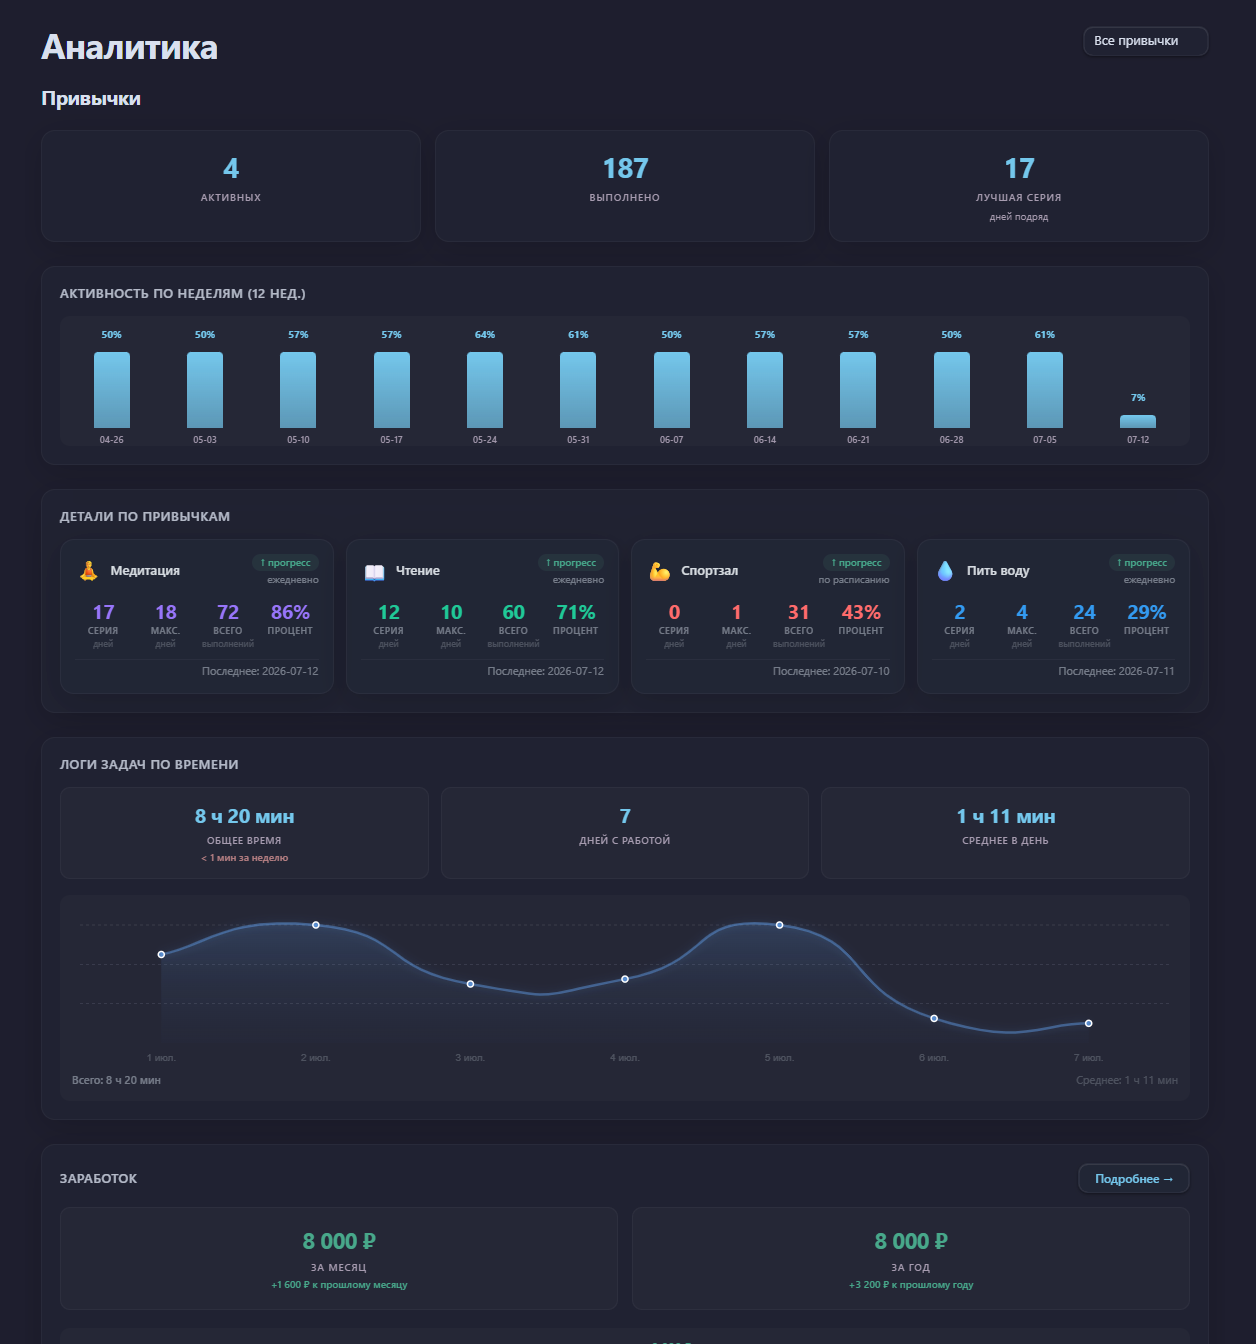
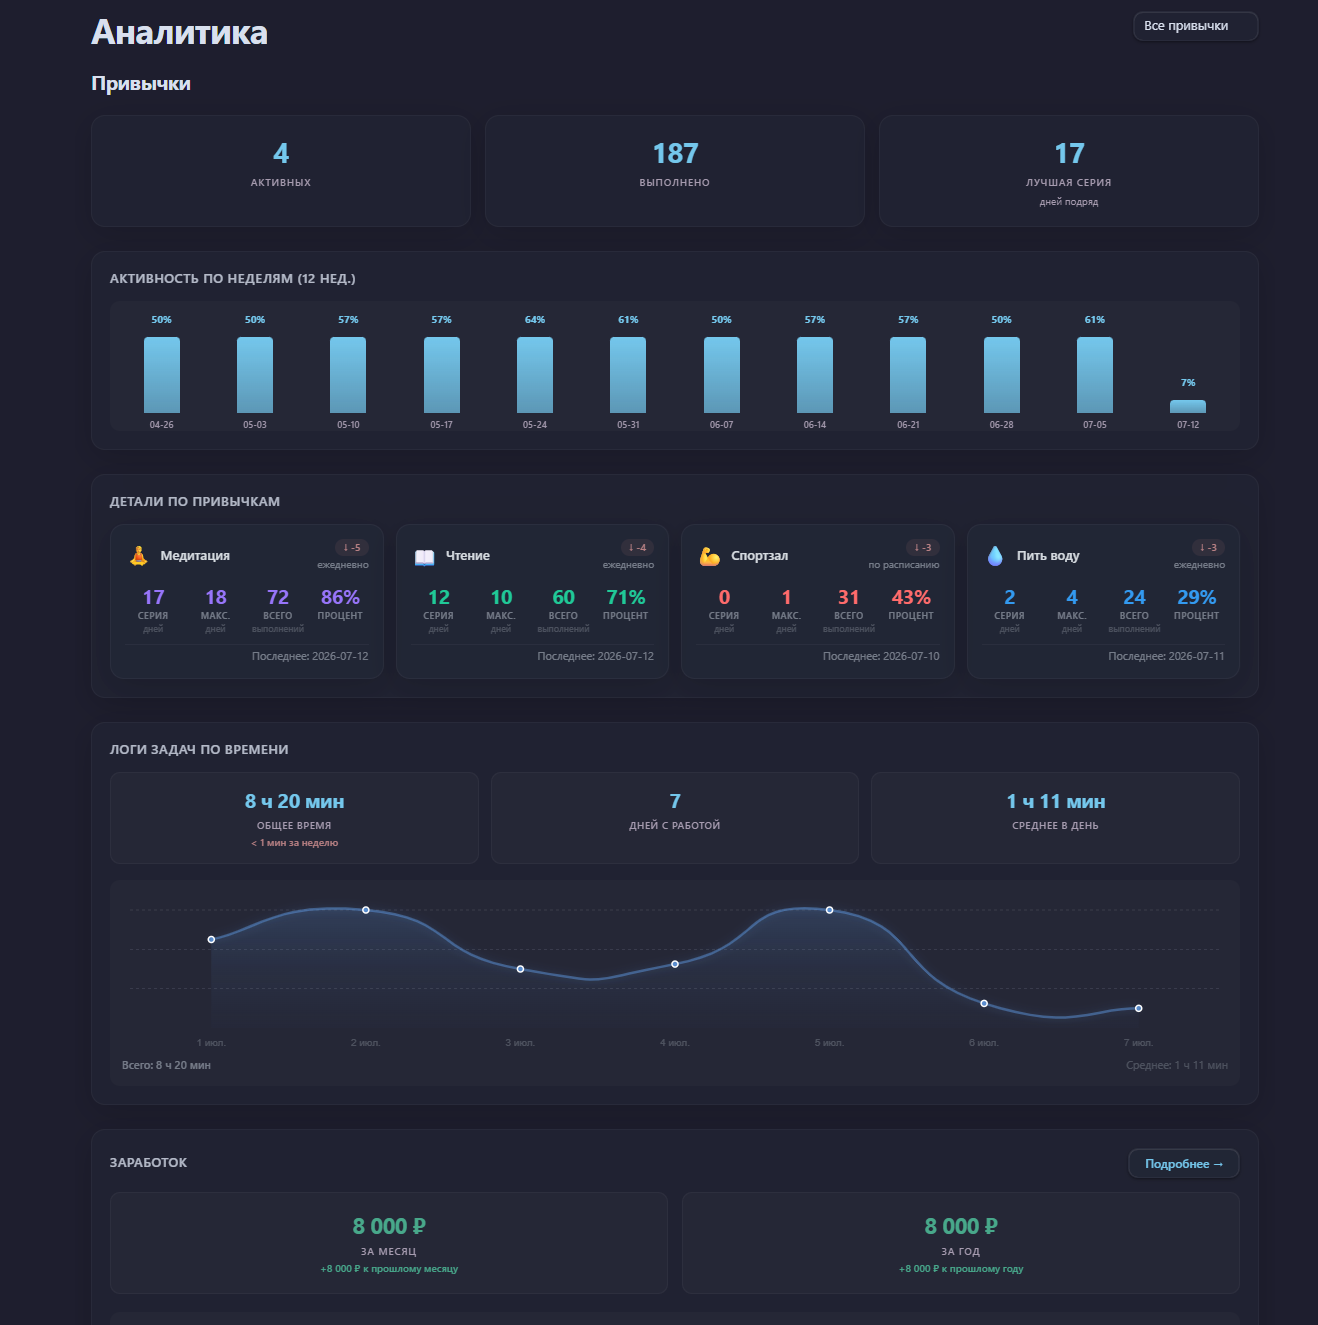
Update 12.07.2026  0:59:16,70

diff --git a/src/components/HabitCard.svelte b/src/components/HabitCard.svelte
@@ -3,14 +3,46 @@
   import { getHabitStats } from "../habit-tracker/stores";
   import type { HabitStats } from "../habit-tracker/stores";
   import { habitLogs } from "../habit-tracker/stores";
+  import moment from "moment";
 
   export let habit: IHabit;
 
   let stats: HabitStats;
+  let trendDelta = 0;
+  let trendText = "";
 
   $: {
     $habitLogs;
     stats = getHabitStats(habit.id);
+
+    // Real trend: completions this week vs last week for this habit
+    const now = moment().startOf("day");
+    const thisWeekStart = now.clone().startOf("week");
+    const lastWeekStart = thisWeekStart.clone().subtract(1, "week");
+    const lastWeekEnd = thisWeekStart.clone().subtract(1, "day");
+
+    let thisWeekCount = 0;
+    let lastWeekCount = 0;
+    for (const log of $habitLogs) {
+      if (log.habitId !== habit.id || !log.completed) continue;
+      const logDate = moment(log.date, "YYYY-MM-DD");
+      if (logDate.isSameOrAfter(thisWeekStart) && logDate.isSameOrBefore(now)) {
+        thisWeekCount++;
+      } else if (logDate.isSameOrAfter(lastWeekStart) && logDate.isSameOrBefore(lastWeekEnd)) {
+        lastWeekCount++;
+      }
+    }
+
+    trendDelta = thisWeekCount - lastWeekCount;
+    if (trendDelta > 0) {
+      trendText = `↑ +${trendDelta}`;
+    } else if (trendDelta < 0) {
+      trendText = `↓ ${trendDelta}`;
+    } else if (thisWeekCount > 0) {
+      trendText = `→ ${thisWeekCount}`;
+    } else {
+      trendText = "—";
+    }
   }
 
   function translateFrequency(freq: string): string {
@@ -28,7 +60,7 @@
     <span class="habit-card-icon">{habit.icon}</span>
     <span class="habit-card-title">{habit.title}</span>
     <span class="habit-card-badge">
-      <span class="habit-card-trend">↑ прогресс</span>
+      <span class="habit-card-trend trend-{trendDelta > 0 ? 'up' : trendDelta < 0 ? 'down' : 'neutral'}">{trendText}</span>
       <span class="habit-card-freq">{translateFrequency(habit.frequency)}</span>
     </span>
   </div>
@@ -108,10 +140,23 @@
   .habit-card-trend {
     font-size: 10px;
     font-weight: 600;
-    color: var(--mcp-success);
-    background: var(--mcp-success-dim);
     padding: 2px 8px;
     border-radius: 10px;
+  }
+
+  .habit-card-trend.trend-up {
+    color: var(--mcp-success);
+    background: var(--mcp-success-dim);
+  }
+
+  .habit-card-trend.trend-down {
+    color: var(--mcp-danger, rgba(220, 100, 100, 0.9));
+    background: var(--mcp-danger-dim, rgba(220, 100, 100, 0.1));
+  }
+
+  .habit-card-trend.trend-neutral {
+    color: var(--mcp-text-muted);
+    background: var(--mcp-glass-highlight);
   }
 
   .habit-card-freq {

diff --git a/src/components/HabitAnalytics.svelte b/src/components/HabitAnalytics.svelte
@@ -122,6 +122,7 @@
     const now = new Date();
     const currentYear = now.getFullYear();
     const currentMonth = now.getMonth() + 1;
+
     const taskMonthly = getEarningsForMonth(currentYear, currentMonth);
     const taskYearly = getEarningsForYear(currentYear);
     const manualIncome = getTotalManualIncome();
@@ -129,11 +130,23 @@
     yearlyEarnings = taskYearly + manualIncome;
     monthlyChart = getMonthlyEarningsForYear(currentYear);
     maxMonthly = Math.max(...monthlyChart.map((m) => m.amount), 1);
+
+    // Real deltas: previous month vs current
+    const prevMonth = currentMonth === 1 ? 12 : currentMonth - 1;
+    const prevMonthYear = currentMonth === 1 ? currentYear - 1 : currentYear;
+    const prevMonthEarnings = getEarningsForMonth(prevMonthYear, prevMonth) + manualIncome;
+    monthlyDelta = monthlyEarnings - prevMonthEarnings;
+
+    // Real deltas: previous year vs current
+    const prevYearEarnings = getEarningsForYear(currentYear - 1) + manualIncome;
+    yearlyDelta = yearlyEarnings - prevYearEarnings;
   }
   let monthlyEarnings = 0;
   let yearlyEarnings = 0;
   let monthlyChart: { month: number; amount: number }[] = [];
   let maxMonthly = 1;
+  let monthlyDelta = 0;
+  let yearlyDelta = 0;
 
   const monthNames = [
     "Янв",
@@ -334,9 +347,9 @@
           >{monthlyEarnings.toLocaleString("ru-RU")} ₽</span
         >
         <span class="earnings-label">За месяц</span>
-        {#if monthlyEarnings > 0}
-          <span class="earnings-delta"
-            >+{Math.round(monthlyEarnings * 0.2).toLocaleString("ru-RU")} ₽ к прошлому
+        {#if monthlyDelta !== 0}
+          <span class="earnings-delta {monthlyDelta > 0 ? 'delta-up' : 'delta-down'}"
+            >{monthlyDelta > 0 ? '+' : ''}{monthlyDelta.toLocaleString("ru-RU")} ₽ к прошлому
             месяцу</span
           >
         {/if}
@@ -346,9 +359,9 @@
           >{yearlyEarnings.toLocaleString("ru-RU")} ₽</span
         >
         <span class="earnings-label">За год</span>
-        {#if yearlyEarnings > 0}
-          <span class="earnings-delta"
-            >+{Math.round(yearlyEarnings * 0.4).toLocaleString("ru-RU")} ₽ к прошлому
+        {#if yearlyDelta !== 0}
+          <span class="earnings-delta {yearlyDelta > 0 ? 'delta-up' : 'delta-down'}"
+            >{yearlyDelta > 0 ? '+' : ''}{yearlyDelta.toLocaleString("ru-RU")} ₽ к прошлому
             году</span
           >
         {/if}
@@ -709,8 +722,15 @@
   .earnings-delta {
     font-size: 10px;
     font-weight: 600;
-    color: var(--mcp-success, rgba(34, 197, 94, 0.9));
     margin-top: 4px;
+  }
+
+  .earnings-delta.delta-up {
+    color: var(--mcp-success, rgba(34, 197, 94, 0.9));
+  }
+
+  .earnings-delta.delta-down {
+    color: var(--mcp-danger, rgba(220, 100, 100, 0.9));
   }
 
   .earnings-chart {

diff --git a/src/task-tracker/TaskItem.svelte b/src/task-tracker/TaskItem.svelte
@@ -2,7 +2,7 @@
   import { createEventDispatcher } from "svelte";
   import type { App } from "obsidian";
   import type { ITask, TaskStatus } from "./types";
-  import { updateTask, updateTaskStatus, removeTask, projects, activeTab } from "./stores";
+  import { updateTask, updateTaskStatus, removeTask, projects, activeTab, calculateTaskEarnings } from "./stores";
   import { timerTick, getActiveTimer, formatDuration, formatEstimate } from "./TimerManager";
   import { TaskModal } from "./TaskModal";
 
@@ -282,9 +282,7 @@
       &#128188; Рабочая
       {#if task.rate && task.status === "done"}
         <span class="task-work-earnings">
-          {task.paymentType === "hour" && task.totalWorkTime
-            ? `${Math.round(task.rate * (task.totalWorkTime / 3600000))} ₽`
-            : `${task.rate} ₽`}
+          {calculateTaskEarnings(task)} ₽
         </span>
       {/if}
     </span>

diff --git a/README.md b/README.md
@@ -79,7 +79,6 @@ ___
 - **Заработок**: за месяц, за год, помесячный график
 
 
-
 ![alt text](image-1.png)
 
 